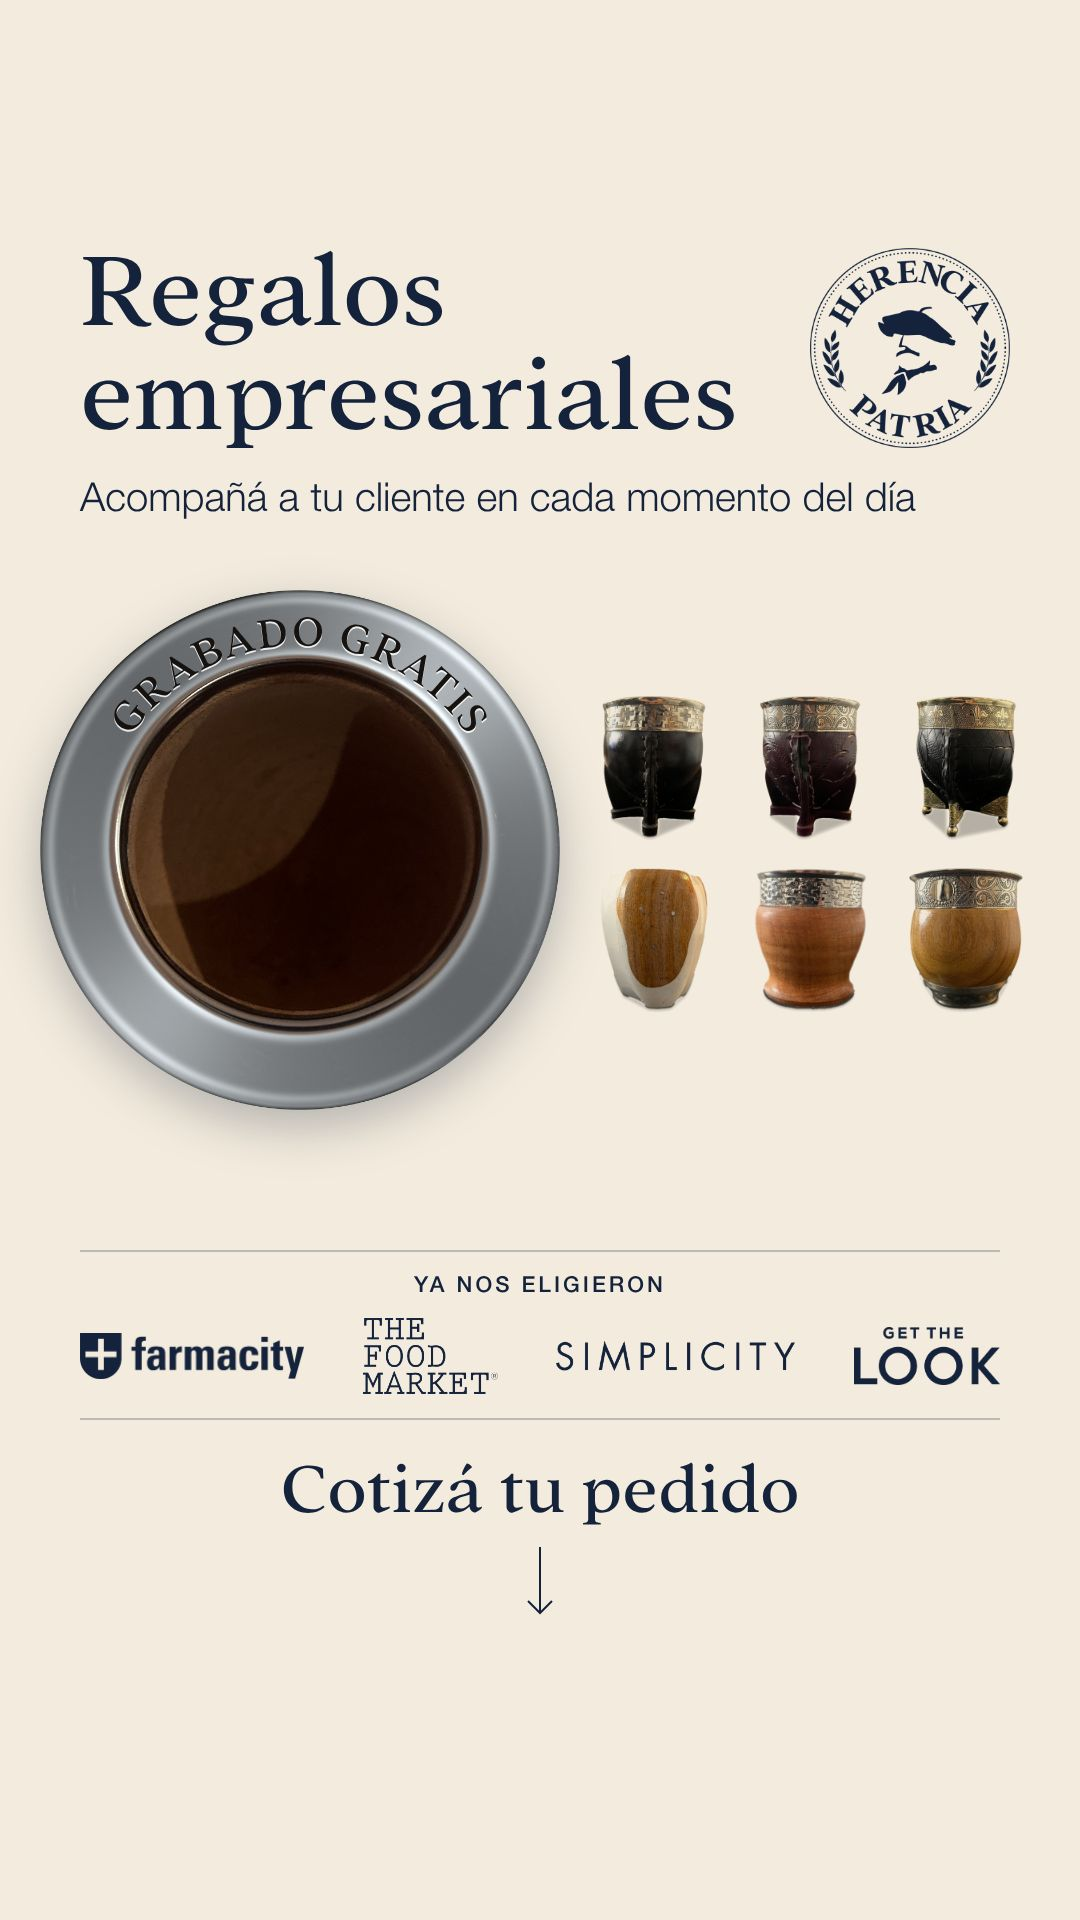
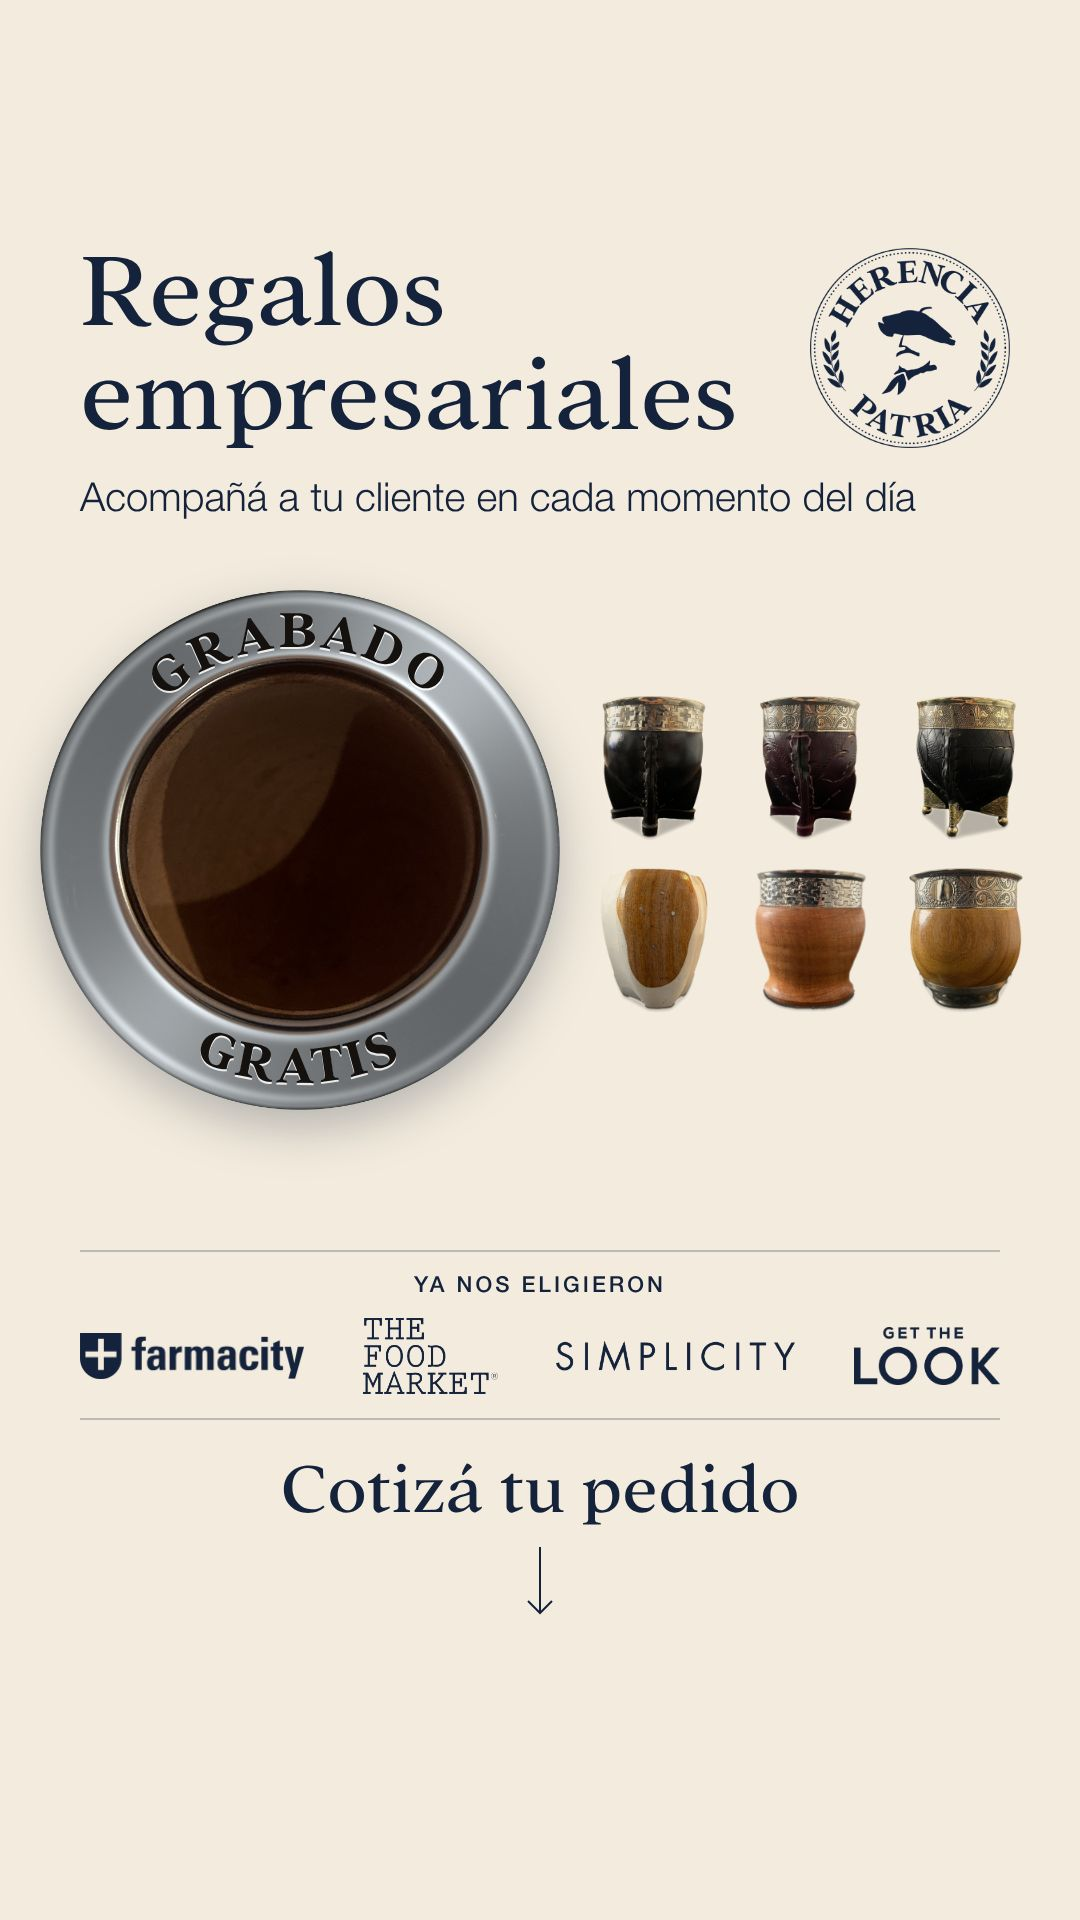
Historia empresarial B: GRABADO arriba y GRATIS abajo, grandes y en negrita
Claude-Session: https://claude.ai/code/session_012H3xPSmbqKoMmc2aK7okNH

diff --git a/src/HerenciaPatria/HistoriaEmpresasLogo.tsx b/src/HerenciaPatria/HistoriaEmpresasLogo.tsx
@@ -17,9 +17,9 @@ export const HistoriaEmpresasLogo: React.FC<{
   readonly bajada: string;
   // El mate grande, visto desde arriba y recortado en círculo justo en el
   // borde del aro (la foto real, sin el fondo), y lo que va grabado en el
-  // aro, en curva por arriba.
+  // aro: una palabra arriba y otra abajo.
   readonly heroe: string;
-  readonly grabado: string;
+  readonly grabado: [arriba: string, abajo: string];
   readonly otros: string[];
   readonly confianza: string;
   readonly logos: [archivo: string, alto: number][];
@@ -95,9 +95,10 @@ export const HistoriaEmpresasLogo: React.FC<{
           filter: "drop-shadow(0 18px 24px rgba(20,35,59,0.28))",
         }}
       />
-      {/* El grabado, en curva por arriba del aro: letras oscuras con un
-          brillo apenas corrido hacia abajo, como talladas en el metal. Las
-          coordenadas son las de la foto (948 px). */}
+      {/* El grabado en el aro, una palabra arriba y otra abajo (las dos
+          derechas), grandes y en negrita para que se lean en el teléfono:
+          letras oscuras con un brillo apenas corrido hacia abajo, como
+          talladas en el metal. Coordenadas de la foto (948 px). */}
       <svg
         viewBox="0 0 948 948"
         style={{
@@ -110,28 +111,35 @@ export const HistoriaEmpresasLogo: React.FC<{
       >
         <defs>
           <path
-            id="arcoGrabado"
-            d="M 107.0 430.5 A 368 368 0 0 1 839.0 430.5"
+            id="grabadoArriba"
+            d="M 129.1 344.8 A 366 366 0 0 1 816.9 344.8"
+          />
+          <path
+            id="grabadoAbajo"
+            d="M 70.8 616.4 A 428 428 0 0 0 875.2 616.4"
           />
         </defs>
-        {[
-          { dy: 3.5, fill: "rgba(255,255,255,0.85)" },
-          { dy: 0, fill: "#16120f" },
-        ].map(({ dy, fill }) => (
-          <text
-            key={fill}
-            transform={`translate(0 ${dy})`}
-            fill={fill}
-            fontFamily={fonts.serif}
-            fontSize={80}
-            letterSpacing={3}
-            textAnchor="middle"
-          >
-            <textPath href="#arcoGrabado" startOffset="50%">
-              {grabado.toUpperCase()}
-            </textPath>
-          </text>
-        ))}
+        {(["grabadoArriba", "grabadoAbajo"] as const).map((arco, k) =>
+          [
+            { dy: 4, fill: "rgba(255,255,255,0.85)" },
+            { dy: 0, fill: "#14110e" },
+          ].map(({ dy, fill }) => (
+            <text
+              key={arco + fill}
+              transform={`translate(0 ${dy})`}
+              fill={fill}
+              fontFamily={fonts.serif}
+              fontWeight={700}
+              fontSize={98}
+              letterSpacing={8}
+              textAnchor="middle"
+            >
+              <textPath href={`#${arco}`} startOffset="50%">
+                {grabado[k].toUpperCase()}
+              </textPath>
+            </text>
+          )),
+        )}
       </svg>
       {/* Los otros modelos: dos filas de tres. */}
       {[otros.slice(0, 3), otros.slice(3)].map((fila, i) => (

diff --git a/src/Root.tsx b/src/Root.tsx
@@ -433,7 +433,7 @@ export const RemotionRoot: React.FC = () => {
           titulo: ["Regalos", "empresariales"],
           bajada: "Acompañá a tu cliente en cada momento del día",
           heroe: "mate-boca-arriba.png",
-          grabado: "Grabado gratis",
+          grabado: ["Grabado", "gratis"] as [string, string],
           // Arriba los de calabaza (simple, repujado y base bolita); abajo
           // los de algarrobo (ranchero, imperial e imperial con base).
           otros: [
